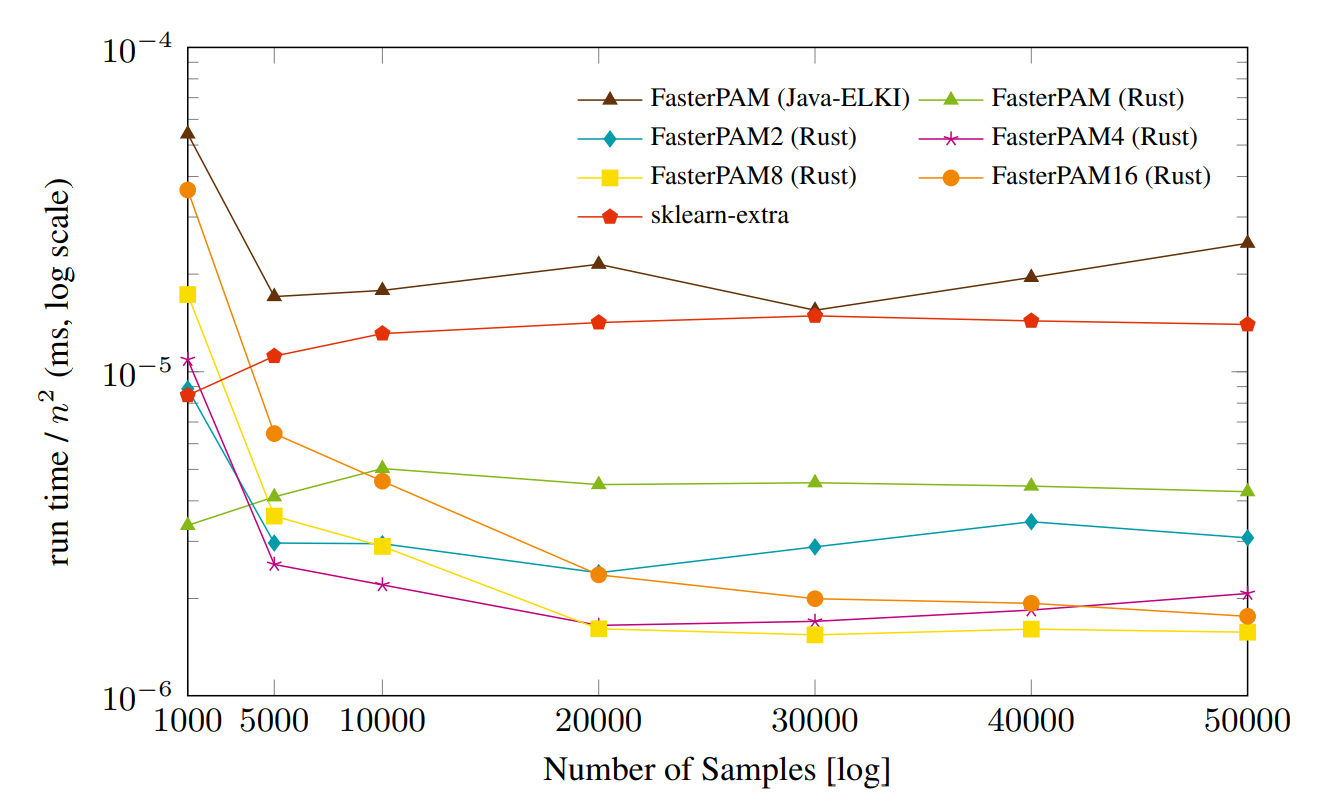
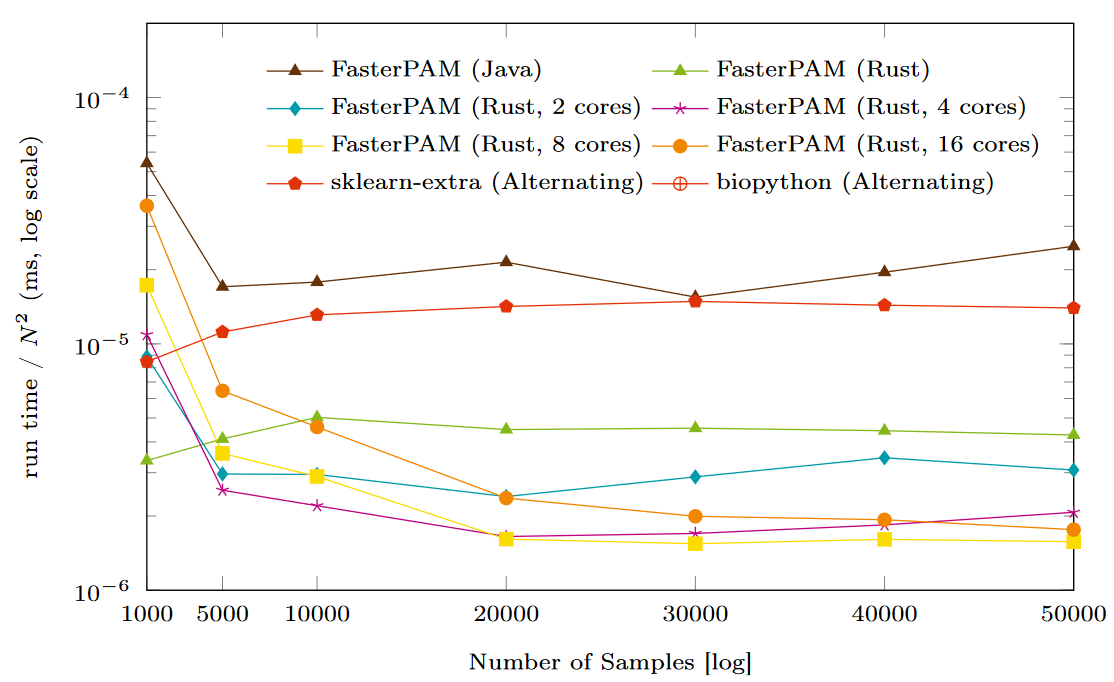
Add experiments

diff --git a/paper.md b/paper.md
@@ -82,9 +82,26 @@ Nevertheless, computing the distance matrix clearly needs O(N²) time and memory
 making the algorithm only a good choice for less than 100,000 instances
 (for large data sets, it likely is reasonable to use subsampling).
 
-TODO: experiments. Only report N=10000 as a table implementation/language/runtime/loss?
+We compare our implementation with alternative k-medoids implementations and algorithms: ``sklearn_extra.cluster.KMedoids``  (v0.2.0, https://github.com/scikit-learn-contrib/scikit-learn-extra), ``PyClustering`` [v0.10.1.2, Version @Novikov/2019],  ``biopython`` [@Cock/2009],
+and ``BanditPAM`` [v3.0.2, @Tiwari/2020]. 
 
-TODO: mention BanditPAM only briefly, that it was several times slower, too?
+TODO: Discuss final results for 10k MNIST?
+
+BanditPAM cannot handle precomputed distance matrices, hence we evaluate BanditPAM separately with including of run time for distance computation. For MNIST 5000, 10000, 15000, and 20000 samples BanditPAM was on average 55 times slower than FasterPAM in Rust. Since BanditPAM with its "almost linear run time" [@Tiwari/2020] scales better than FasterPAM with quadratic run time, a break-even point can be estimated to be beyond 500000 samples for MNIST (a size where the memory consumption of the distance matrix makes a stored-distance approach prohibitive to use).
+
+| **implementation** | **algorithm** | **language** | **run time in ns/N²** |  **average loss** |
+|---------|----------------|---------|----------|---------|----------|
+|     ``python-kmedoids``    |   FasterPAM    | Python, Rust |  **5.03**    | 18755553  |
+|     ``ELKI``               |   FasterPAM    | Java         |  17.81       | 18744453  |
+|     ``python-kmedoids``    |   Alternating  | Python, Rust |  **8.43**    | 19238742  |
+|     ``sklearn_extra``      |   Alternating  | Python       |  13.11       | 19238743  |
+|     ``biopython``          |   Alternating  | Python, C    |  20.82       | 19685440  |
+|     ``python-kmedoids``    |   PAM          | Python, Rust |  **144.06**  | 18780640  |
+|     ``sklearn_extra``      |   PAM          | Python       |  1473.87     | 18742544  |
+|     ``PyClustering``       |   PAM          | Python, C++  |  44586.12    | 18781509  |
+
+Table: Results on first 10000 MNIST instances with k = 10.
+
 
 # Benchmark
 
@@ -98,14 +115,6 @@ BanditPAM cannot handle precomputed distance matrices, hence we evaluate BanditP
 The fastest version without parallel processing is the FasterPAM in Rust with 4.48 ns/N². The original Java FasterPAM implementation took 21.04 ns/N², 4 times longer. Also sklearn-extra is slower with 13.61 ns/N², which corresponds to a speedup factor of 3. With 135257 ns/N² is PyClustering almost 30000 times slower, so \autoref{fig:example_mnist} shows only sklearn-extra and FasterPAM with its variants. 
 
 Since BanditPAM cannot process precomputed distance matrices, here we compare the run time of BanditPAM with that of FasterPAM in Rust including the calculation time for the full distance matrix. BanditPAM for MNIST 5000, 10000, 15000, and 20000 samples was on average 55 times slower than FasterPAM in Rust. Since BanditPAM with its "almost linear run time" [@Tiwari/2020] scales better than FasterPAM with quadratic run time, a break-even point can be estimated to be beyond 500000 samples for MNIST (a size where the memory consumption of the distance matrix makes a stored-distance approach prohibitive to use).
-
-| **samples** | **implementation** | **average loss** | **run time in s** |
-|---------|----------------|---------|----------|---------|----------|
-|     5000    |         FasterPAM (Rust) / BanditPAM &nbsp; &nbsp;          |    9365549 / **9361719** &nbsp;     |    **1.48** / 133.19     |
-|     10000   |         FasterPAM (Rust) / BanditPAM &nbsp; &nbsp;          |    **18741470** / 18742086 &nbsp;   |    **3.49** / 190.62     |
-|     15000   |         FasterPAM (Rust) / BanditPAM &nbsp; &nbsp;          |    28283025 / **28261579** &nbsp;   |    **8.21** / 336.29     |
-|     20000   |         FasterPAM (Rust) / BanditPAM &nbsp; &nbsp;          |    37619359 / **37575315** &nbsp;   |    **15.46** / 601.49    |
-
 
 
 # References
